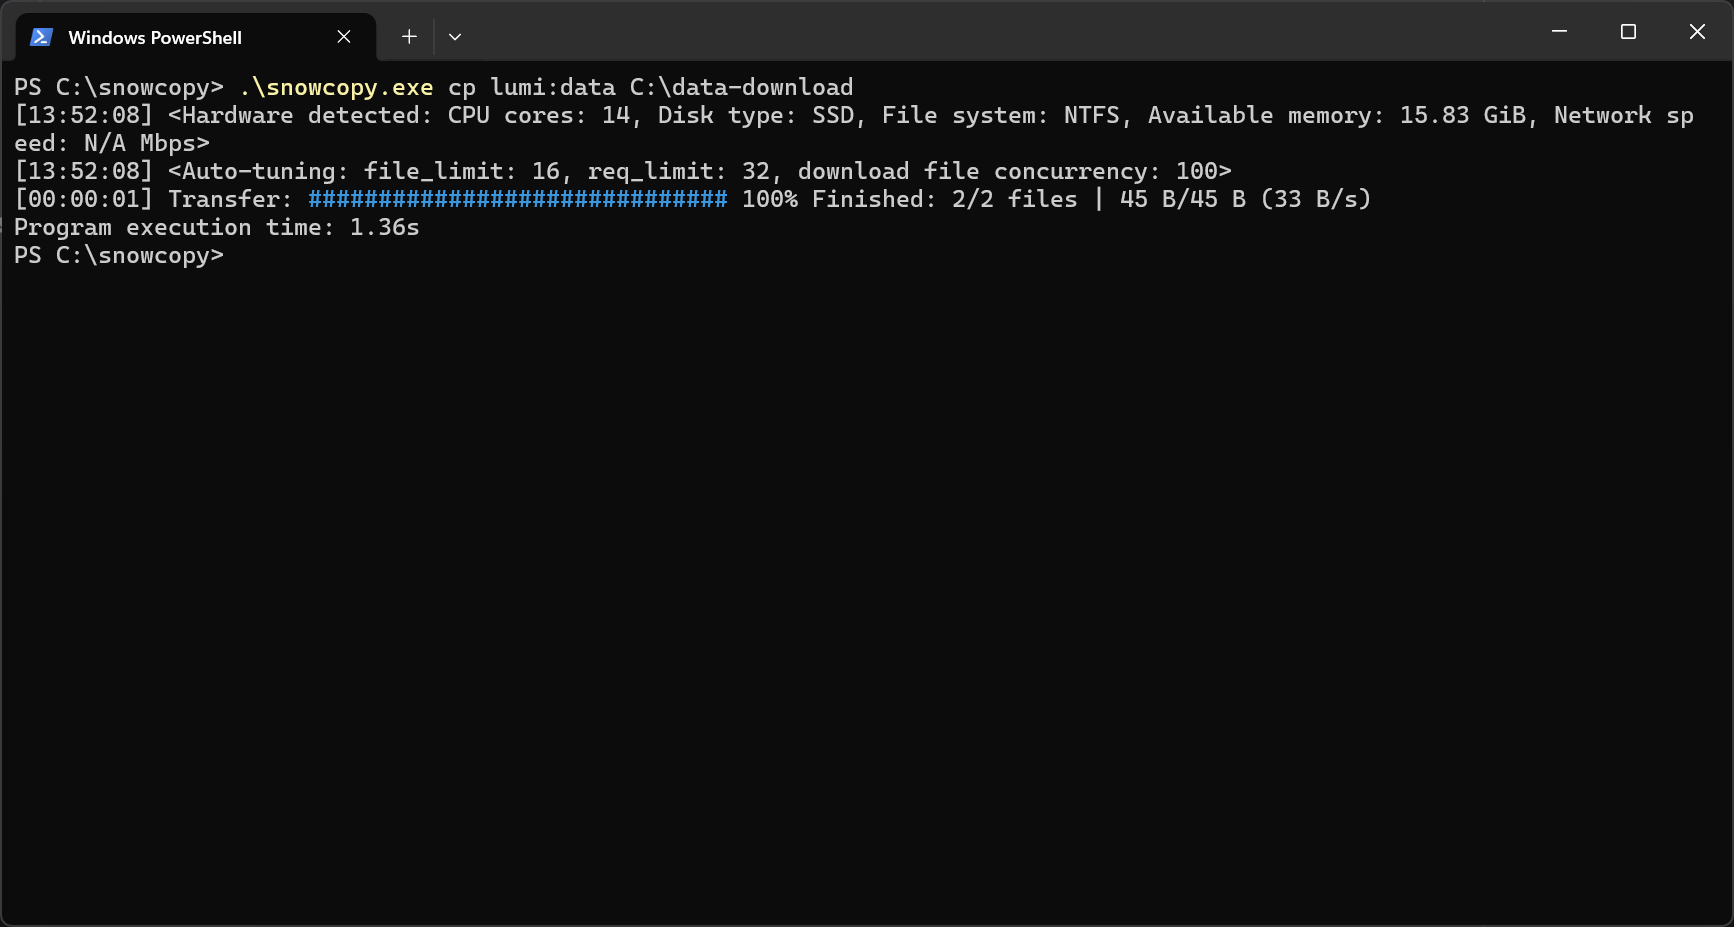
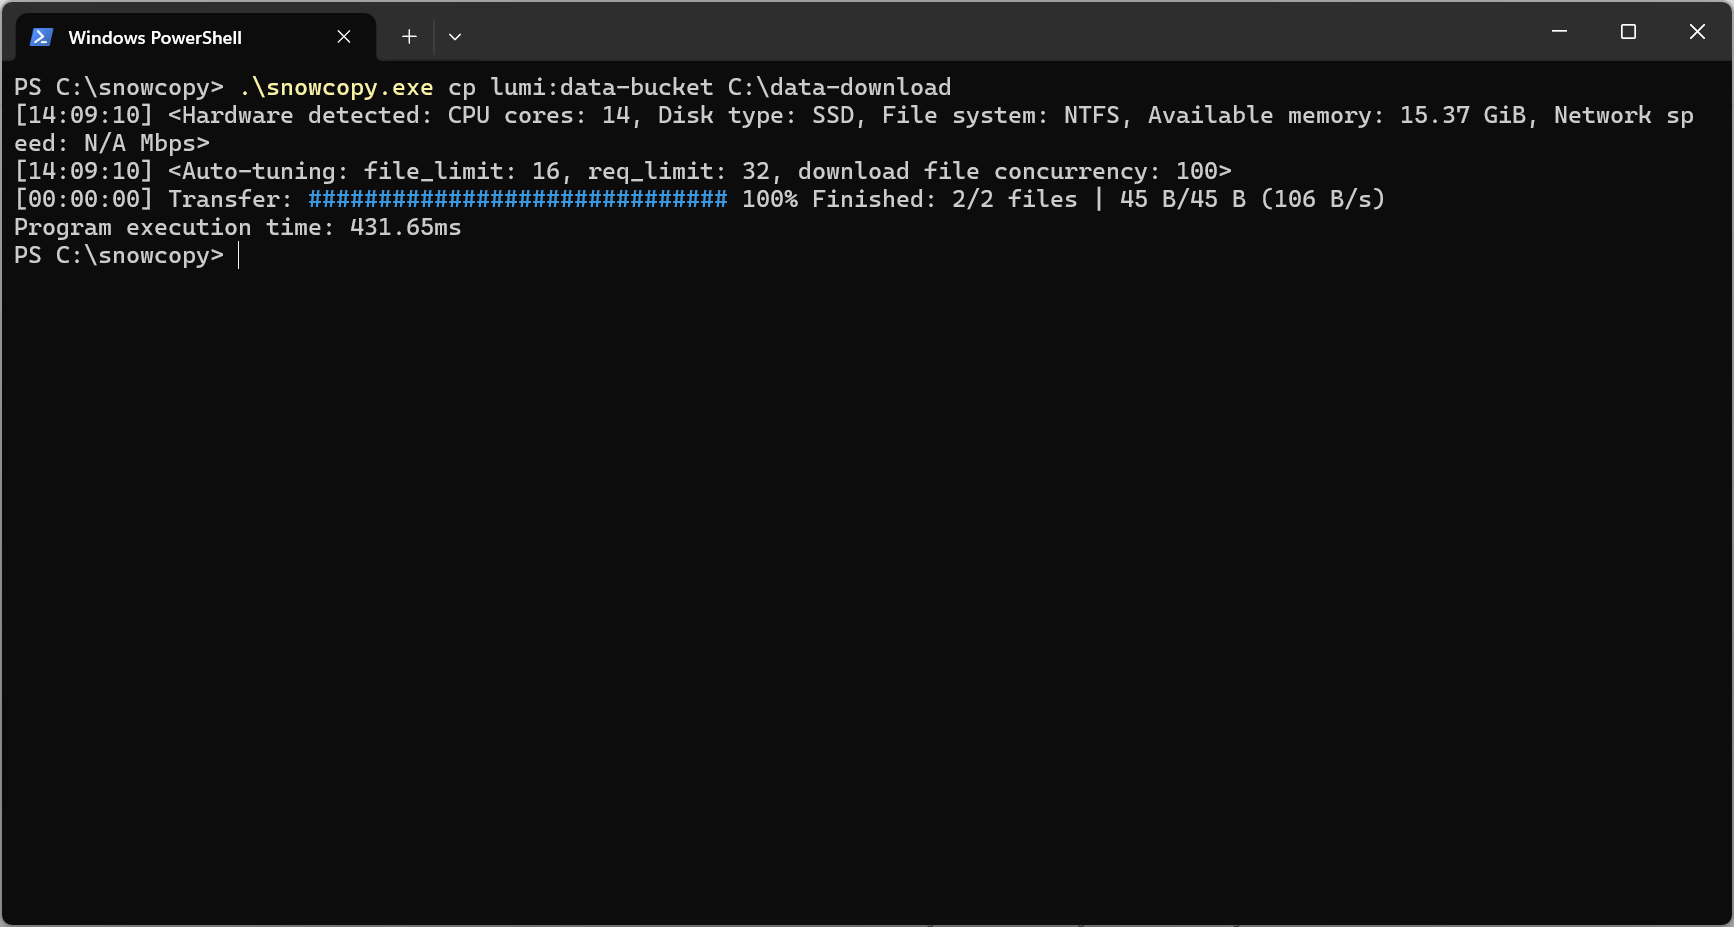
Fixed examples and images not aligning

diff --git a/src/snowcopy/list_files.md b/src/snowcopy/list_files.md
@@ -1,6 +1,29 @@
 # List files
 
-Let's explore our new bucket to confirm that its contents is as we expect.
+Lets first list the buckets to see our newly uploaded one.
+
+<div data-platform="windows">
+
+<div class="command-box">
+    <div class="command-label">COMMAND</div> <span class="cmd-bin">.\snowcopy.exe ls lumi:</span>
+</div>
+
+![](../image/win-ls-buckets-after-new.png)
+
+</div>
+
+<div data-platform="linux">
+
+<div class="command-box">
+    <div class="command-label">COMMAND</div> <span class="cmd-bin">./snowcopy ls lumi:</span>
+</div>
+
+![](../image/placeholder.png)
+
+
+</div>
+
+To list its contents, we can do as such:
 
 <div data-platform="windows">
 
